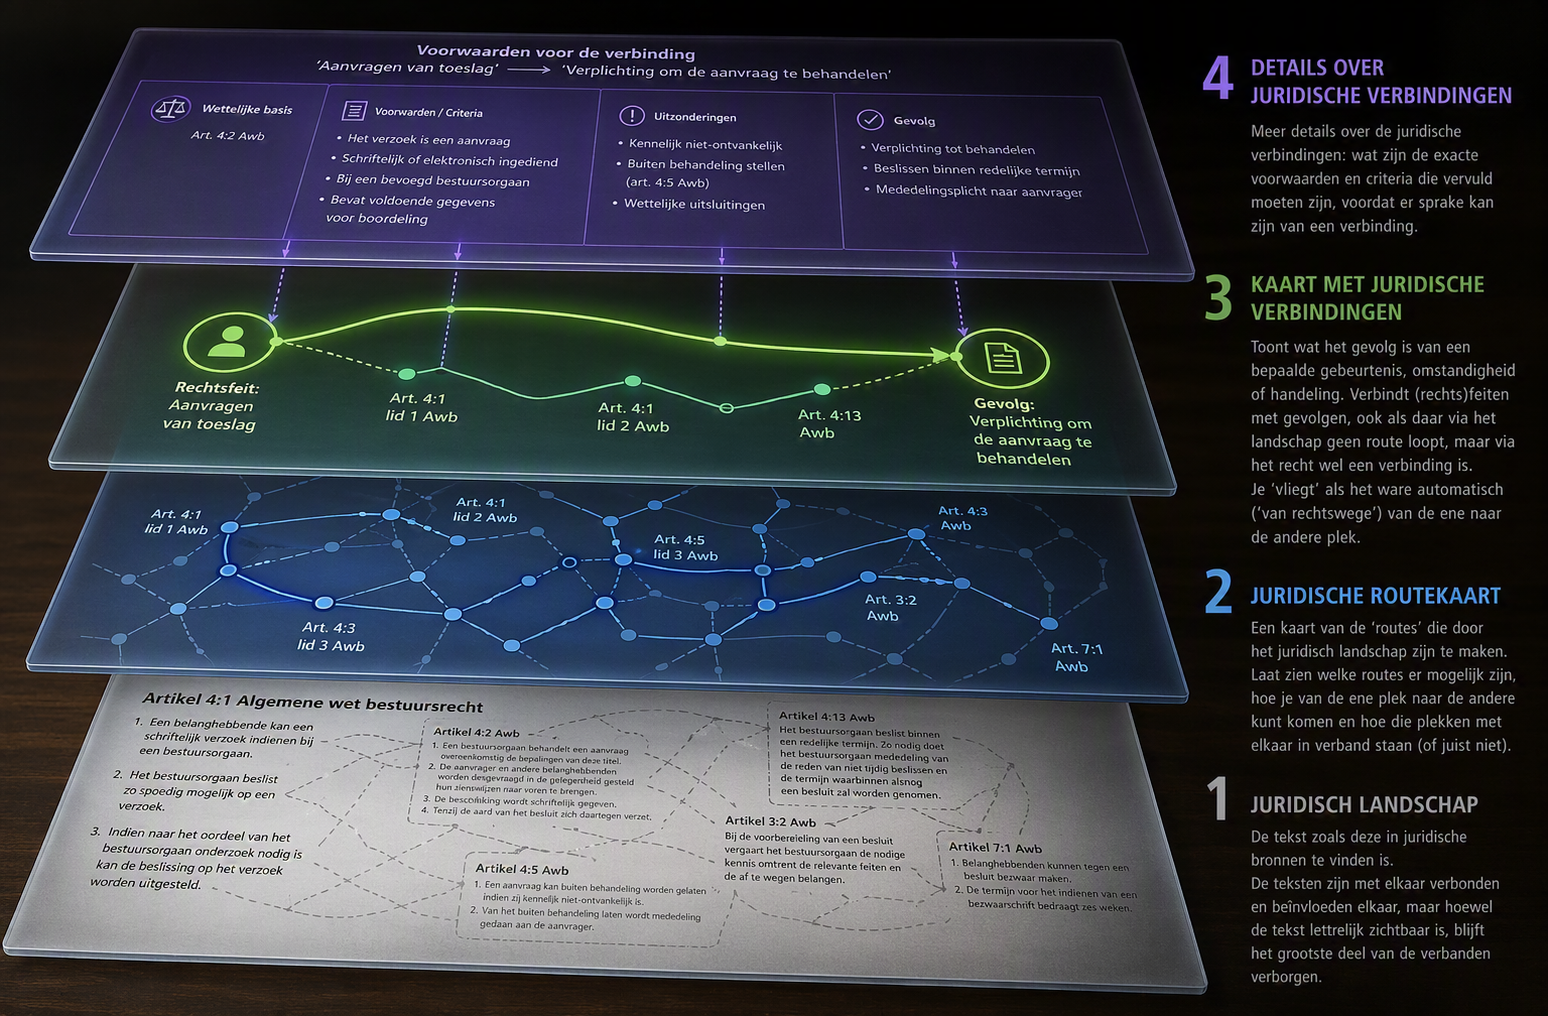
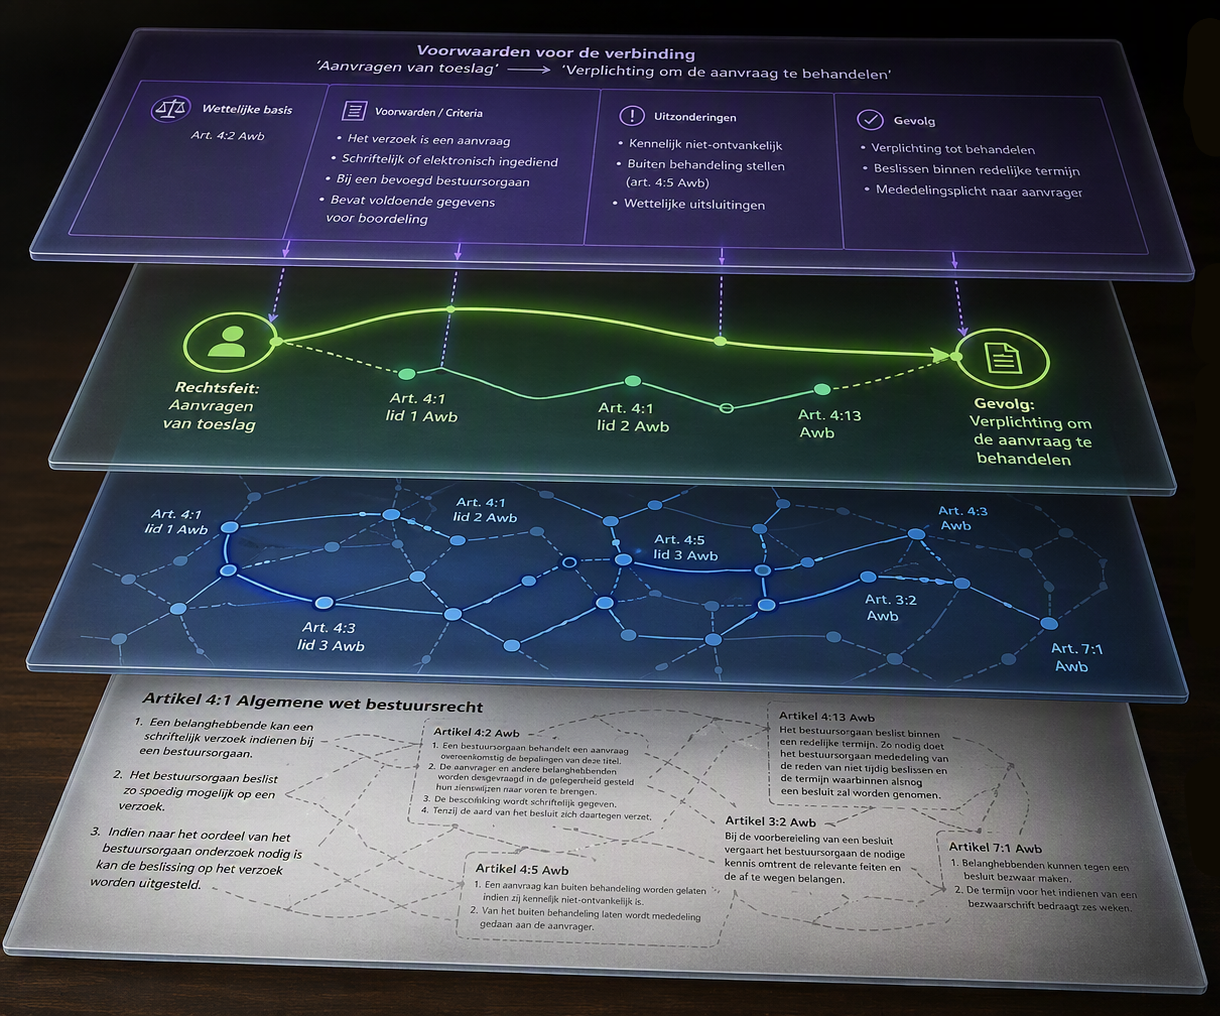
Verbetering visualisatie en terminologie

diff --git a/regelvorming/index.html b/regelvorming/index.html
@@ -28,6 +28,48 @@ dfn{cursor:pointer}
 <title>Regelvorming</title>
     
     
+<style>
+
+      .legislation {
+         margin: 1em 0;
+         padding: 0.5em 1em;
+         background: #eef6ff;
+         border-left: 4px solid #5b9bd5;
+         font-family: Arial, Verdana, sans-serif;
+         font-size: 0.95em;
+         line-height: 1.5;
+      }
+
+      .legislation .lid,
+      .legislation .onderdeel {
+        margin: 0.25em 0;
+      }
+
+      .legislation .lid {
+        padding-left: 2em;
+        text-indent: -1em;
+      }
+
+      .legislation .onderdeel {
+        padding-left: 3em;
+        text-indent: -1em;
+      }
+
+      .legislation .nr {
+        display: inline-block;
+        font-weight: normal;
+      }
+
+      .legislation .lid .nr {
+        width: 1em;
+      }
+
+      .legislation .onderdeel .nr {
+        width: 1em;
+      }
+    
+</style>
+    
     
   
 <style id="respec-mainstyle">
@@ -157,6 +199,7 @@ var[data-type]:hover::after,var[data-type]:hover::before{opacity:1}
   "subtitle": "Begrippen en model",
   "postProcess": [
     null,
+    null,
     null
   ],
   "latestVersion": "https://bp4mc2.org/regelvorming",
@@ -173,14 +216,14 @@ var[data-type]:hover::after,var[data-type]:hover::before{opacity:1}
     }
   ],
   "lint": false,
-  "publishISODate": "2026-06-22T00:00:00.000Z",
-  "generatedSubtitle": "22 juni 2026"
+  "publishISODate": "2026-06-29T00:00:00.000Z",
+  "generatedSubtitle": "29 juni 2026"
 }</script>
 <link rel="stylesheet" href="https://www.w3.org/StyleSheets/TR/2021/base.css"></head>
   <body class="h-entry informative"><div class="head">
     
     <h1 id="title" class="title">Regelvorming</h1> <h2 id="subtitle" class="subtitle">Begrippen en model</h2>
-    <p id="w3c-state"> <time class="dt-published" datetime="2026-06-22">22 juni 2026</time></p>
+    <p id="w3c-state"> <time class="dt-published" datetime="2026-06-29">29 juni 2026</time></p>
     <details open="">
       <summary>More details about this document</summary>
       <dl>
@@ -243,9 +286,9 @@ var[data-type]:hover::after,var[data-type]:hover::before{opacity:1}
 <li>En welke bepalingen hebben we dan nodig?</li>
 </ul>
 <p>En tenslotte ontstaat dan een stukje tekst, waarin de gevormde regels kunnen worden gecodificeerd.</p>
-</section><nav id="toc"><h2 class="introductory" id="inhoudsopgave">Inhoudsopgave</h2><ol class="toc"><li class="tocline"><a class="tocxref" href="#abstract">Samenvatting</a></li><li class="tocline"><a class="tocxref" href="#voorbeeld"><bdi class="secno">1. </bdi>Voorbeeld</a><ol class="toc"><li class="tocline"><a class="tocxref" href="#juridischlandschap"><bdi class="secno">1.1 </bdi>Eerste laag: het juridische landschap, de kern - tekstfragmenten die als grondslag dienen</a></li><li class="tocline"><a class="tocxref" href="#juridischewegenkaart"><bdi class="secno">1.2 </bdi>Tweede laag: de juridische wegenkaart - bepalingen en handelingen</a></li><li class="tocline"><a class="tocxref" href="#juridischeverbindingen"><bdi class="secno">1.3 </bdi>Derde laag: de juridische etappes - de feit-gevolg-paren</a></li><li class="tocline"><a class="tocxref" href="#detailleringjuridischeverbindingen"><bdi class="secno">1.4 </bdi>Vierde laag: voorwaarden en criteria</a></li></ol></li><li class="tocline"><a class="tocxref" href="#regelvorming"><bdi class="secno">2. </bdi>Regelvorming</a><ol class="toc"><li class="tocline"><a class="tocxref" href="#inleiding"><bdi class="secno">2.1 </bdi>Inleiding</a></li><li class="tocline"><a class="tocxref" href="#de-basis-gegeven-bronnen-van-recht"><bdi class="secno">2.2 </bdi>De basis: gegeven bronnen van recht</a></li><li class="tocline"><a class="tocxref" href="#een-stapje-dieper-bepalingen"><bdi class="secno">2.3 </bdi>Een stapje dieper: bepalingen</a></li><li class="tocline"><a class="tocxref" href="#nog-een-stapje-dieper-handelingen-actoren-en-objecten"><bdi class="secno">2.4 </bdi>Nog een stapje dieper: handelingen, actoren en objecten</a></li><li class="tocline"><a class="tocxref" href="#en-tenslotte-feiten-en-gevolgen"><bdi class="secno">2.5 </bdi>En tenslotte: feiten en gevolgen</a></li><li class="tocline"><a class="tocxref" href="#subjectieve-rechten-vs-bepalingen-in-het-objectieve-recht"><bdi class="secno">2.6 </bdi>Subjectieve rechten vs bepalingen in het objectieve recht</a></li></ol></li><li class="tocline"><a class="tocxref" href="#begrippen"><bdi class="secno">3. </bdi>Begrippen</a><ol class="toc"><li class="tocline"><a class="tocxref" href="#regelvorming-0"><bdi class="secno">3.1 </bdi>Regelvorming</a><ol class="toc"><li class="tocline"><a class="tocxref" href="#actor"><bdi class="secno">3.1.1 </bdi>Actor</a></li><li class="tocline"><a class="tocxref" href="#attributie"><bdi class="secno">3.1.2 </bdi>Attributie</a></li><li class="tocline"><a class="tocxref" href="#begrip"><bdi class="secno">3.1.3 </bdi>Begrip</a></li><li class="tocline"><a class="tocxref" href="#begripsbepaling"><bdi class="secno">3.1.4 </bdi>Begripsbepaling</a></li><li class="tocline"><a class="tocxref" href="#bepaling"><bdi class="secno">3.1.5 </bdi>Bepaling</a></li><li class="tocline"><a class="tocxref" href="#bevoegdheid"><bdi class="secno">3.1.6 </bdi>Bevoegdheid</a></li><li class="tocline"><a class="tocxref" href="#bron"><bdi class="secno">3.1.7 </bdi>Bron</a></li><li class="tocline"><a class="tocxref" href="#delegatie"><bdi class="secno">3.1.8 </bdi>Delegatie</a></li><li class="tocline"><a class="tocxref" href="#fragment"><bdi class="secno">3.1.9 </bdi>Fragment</a></li><li class="tocline"><a class="tocxref" href="#gebeurtenis"><bdi class="secno">3.1.10 </bdi>Gebeurtenis</a></li><li class="tocline"><a class="tocxref" href="#gedragsbepaling"><bdi class="secno">3.1.11 </bdi>Gedragsbepaling</a></li><li class="tocline"><a class="tocxref" href="#gedragsnorm"><bdi class="secno">3.1.12 </bdi>Gedragsnorm</a></li><li class="tocline"><a class="tocxref" href="#handeling"><bdi class="secno">3.1.13 </bdi>Handeling</a></li><li class="tocline"><a class="tocxref" href="#norm"><bdi class="secno">3.1.14 </bdi>Norm</a></li><li class="tocline"><a class="tocxref" href="#normadressaat"><bdi class="secno">3.1.15 </bdi>Normadressaat</a></li><li class="tocline"><a class="tocxref" href="#normbepaling"><bdi class="secno">3.1.16 </bdi>Normbepaling</a></li><li class="tocline"><a class="tocxref" href="#omstandigheid"><bdi class="secno">3.1.17 </bdi>Omstandigheid</a></li><li class="tocline"><a class="tocxref" href="#rechtsbetrekking"><bdi class="secno">3.1.18 </bdi>Rechtsbetrekking</a></li><li class="tocline"><a class="tocxref" href="#rechtschepping"><bdi class="secno">3.1.19 </bdi>Rechtschepping</a></li><li class="tocline"><a class="tocxref" href="#rechtsfeit"><bdi class="secno">3.1.20 </bdi>Rechtsfeit</a></li><li class="tocline"><a class="tocxref" href="#rechtsgevolg"><bdi class="secno">3.1.21 </bdi>Rechtsgevolg</a></li><li class="tocline"><a class="tocxref" href="#rechtshandeling"><bdi class="secno">3.1.22 </bdi>Rechtshandeling</a></li><li class="tocline"><a class="tocxref" href="#rechtspositie"><bdi class="secno">3.1.23 </bdi>Rechtspositie</a></li><li class="tocline"><a class="tocxref" href="#rechtswege-bepaling"><bdi class="secno">3.1.24 </bdi>Rechtswege-bepaling</a></li><li class="tocline"><a class="tocxref" href="#tekstfragment"><bdi class="secno">3.1.25 </bdi>Tekstfragment</a></li><li class="tocline"><a class="tocxref" href="#verbod"><bdi class="secno">3.1.26 </bdi>Verbod</a></li><li class="tocline"><a class="tocxref" href="#verplichting"><bdi class="secno">3.1.27 </bdi>Verplichting</a></li><li class="tocline"><a class="tocxref" href="#voorwaarde"><bdi class="secno">3.1.28 </bdi>Voorwaarde</a></li><li class="tocline"><a class="tocxref" href="#vrijstelling"><bdi class="secno">3.1.29 </bdi>Vrijstelling</a></li></ol></li></ol></li><li class="tocline"><a class="tocxref" href="#toepassingsprofiel"><bdi class="secno">4. </bdi>Toepassingsprofiel</a><ol class="toc"><li class="tocline"><a class="tocxref" href="#klassen"><bdi class="secno">4.1 </bdi>Klassen</a><ol class="toc"><li class="tocline"><a class="tocxref" href="#TActor"><bdi class="secno">4.1.1 </bdi>Actor</a></li><li class="tocline"><a class="tocxref" href="#TBegrip"><bdi class="secno">4.1.2 </bdi>Begrip</a></li><li class="tocline"><a class="tocxref" href="#TBepaling"><bdi class="secno">4.1.3 </bdi>Bepaling</a></li><li class="tocline"><a class="tocxref" href="#TBron"><bdi class="secno">4.1.4 </bdi>Bron</a></li><li class="tocline"><a class="tocxref" href="#TFragment"><bdi class="secno">4.1.5 </bdi>Fragment</a></li><li class="tocline"><a class="tocxref" href="#THandeling"><bdi class="secno">4.1.6 </bdi>Handeling</a></li></ol></li></ol></li></ol></nav>
+</section><nav id="toc"><h2 class="introductory" id="inhoudsopgave">Inhoudsopgave</h2><ol class="toc"><li class="tocline"><a class="tocxref" href="#abstract">Samenvatting</a></li><li class="tocline"><a class="tocxref" href="#voorbeeld"><bdi class="secno">1. </bdi>Voorbeeld</a><ol class="toc"><li class="tocline"><a class="tocxref" href="#juridischlandschap"><bdi class="secno">1.1 </bdi>Eerste laag: het juridische landschap, de kern - tekstfragmenten die als grondslag dienen</a></li><li class="tocline"><a class="tocxref" href="#juridischetopografie"><bdi class="secno">1.2 </bdi>Tweede laag: de juridische topografie - bepalingen en handelingen</a></li><li class="tocline"><a class="tocxref" href="#juridischeverbindingen"><bdi class="secno">1.3 </bdi>Derde laag: de juridische etappes - de feit-gevolg-paren</a></li><li class="tocline"><a class="tocxref" href="#detailleringjuridischeverbindingen"><bdi class="secno">1.4 </bdi>Vierde laag: voorwaarden en criteria</a></li></ol></li><li class="tocline"><a class="tocxref" href="#regelvorming"><bdi class="secno">2. </bdi>Regelvorming</a><ol class="toc"><li class="tocline"><a class="tocxref" href="#inleiding"><bdi class="secno">2.1 </bdi>Inleiding</a></li><li class="tocline"><a class="tocxref" href="#de-basis-gegeven-bronnen-van-recht"><bdi class="secno">2.2 </bdi>De basis: gegeven bronnen van recht</a></li><li class="tocline"><a class="tocxref" href="#een-stapje-dieper-bepalingen"><bdi class="secno">2.3 </bdi>Een stapje dieper: bepalingen</a></li><li class="tocline"><a class="tocxref" href="#nog-een-stapje-dieper-handelingen-actoren-en-objecten"><bdi class="secno">2.4 </bdi>Nog een stapje dieper: handelingen, actoren en objecten</a></li><li class="tocline"><a class="tocxref" href="#en-tenslotte-feiten-en-gevolgen"><bdi class="secno">2.5 </bdi>En tenslotte: feiten en gevolgen</a></li><li class="tocline"><a class="tocxref" href="#subjectieve-rechten-vs-bepalingen-in-het-objectieve-recht"><bdi class="secno">2.6 </bdi>Subjectieve rechten vs bepalingen in het objectieve recht</a></li></ol></li><li class="tocline"><a class="tocxref" href="#begrippen"><bdi class="secno">3. </bdi>Begrippen</a><ol class="toc"><li class="tocline"><a class="tocxref" href="#regelvorming-0"><bdi class="secno">3.1 </bdi>Regelvorming</a><ol class="toc"><li class="tocline"><a class="tocxref" href="#actor"><bdi class="secno">3.1.1 </bdi>Actor</a></li><li class="tocline"><a class="tocxref" href="#attributie"><bdi class="secno">3.1.2 </bdi>Attributie</a></li><li class="tocline"><a class="tocxref" href="#begrip"><bdi class="secno">3.1.3 </bdi>Begrip</a></li><li class="tocline"><a class="tocxref" href="#begripsbepaling"><bdi class="secno">3.1.4 </bdi>Begripsbepaling</a></li><li class="tocline"><a class="tocxref" href="#bepaling"><bdi class="secno">3.1.5 </bdi>Bepaling</a></li><li class="tocline"><a class="tocxref" href="#bevoegdheid"><bdi class="secno">3.1.6 </bdi>Bevoegdheid</a></li><li class="tocline"><a class="tocxref" href="#bron"><bdi class="secno">3.1.7 </bdi>Bron</a></li><li class="tocline"><a class="tocxref" href="#delegatie"><bdi class="secno">3.1.8 </bdi>Delegatie</a></li><li class="tocline"><a class="tocxref" href="#fragment"><bdi class="secno">3.1.9 </bdi>Fragment</a></li><li class="tocline"><a class="tocxref" href="#gebeurtenis"><bdi class="secno">3.1.10 </bdi>Gebeurtenis</a></li><li class="tocline"><a class="tocxref" href="#gedragsbepaling"><bdi class="secno">3.1.11 </bdi>Gedragsbepaling</a></li><li class="tocline"><a class="tocxref" href="#gedragsnorm"><bdi class="secno">3.1.12 </bdi>Gedragsnorm</a></li><li class="tocline"><a class="tocxref" href="#handeling"><bdi class="secno">3.1.13 </bdi>Handeling</a></li><li class="tocline"><a class="tocxref" href="#norm"><bdi class="secno">3.1.14 </bdi>Norm</a></li><li class="tocline"><a class="tocxref" href="#normadressaat"><bdi class="secno">3.1.15 </bdi>Normadressaat</a></li><li class="tocline"><a class="tocxref" href="#normbepaling"><bdi class="secno">3.1.16 </bdi>Normbepaling</a></li><li class="tocline"><a class="tocxref" href="#omstandigheid"><bdi class="secno">3.1.17 </bdi>Omstandigheid</a></li><li class="tocline"><a class="tocxref" href="#rechtsbetrekking"><bdi class="secno">3.1.18 </bdi>Rechtsbetrekking</a></li><li class="tocline"><a class="tocxref" href="#rechtschepping"><bdi class="secno">3.1.19 </bdi>Rechtschepping</a></li><li class="tocline"><a class="tocxref" href="#rechtsfeit"><bdi class="secno">3.1.20 </bdi>Rechtsfeit</a></li><li class="tocline"><a class="tocxref" href="#rechtsgevolg"><bdi class="secno">3.1.21 </bdi>Rechtsgevolg</a></li><li class="tocline"><a class="tocxref" href="#rechtshandeling"><bdi class="secno">3.1.22 </bdi>Rechtshandeling</a></li><li class="tocline"><a class="tocxref" href="#rechtspositie"><bdi class="secno">3.1.23 </bdi>Rechtspositie</a></li><li class="tocline"><a class="tocxref" href="#rechtswege-bepaling"><bdi class="secno">3.1.24 </bdi>Rechtswege-bepaling</a></li><li class="tocline"><a class="tocxref" href="#tekstfragment"><bdi class="secno">3.1.25 </bdi>Tekstfragment</a></li><li class="tocline"><a class="tocxref" href="#verbod"><bdi class="secno">3.1.26 </bdi>Verbod</a></li><li class="tocline"><a class="tocxref" href="#verplichting"><bdi class="secno">3.1.27 </bdi>Verplichting</a></li><li class="tocline"><a class="tocxref" href="#voorwaarde"><bdi class="secno">3.1.28 </bdi>Voorwaarde</a></li><li class="tocline"><a class="tocxref" href="#vrijstelling"><bdi class="secno">3.1.29 </bdi>Vrijstelling</a></li></ol></li></ol></li><li class="tocline"><a class="tocxref" href="#toepassingsprofiel"><bdi class="secno">4. </bdi>Toepassingsprofiel</a><ol class="toc"><li class="tocline"><a class="tocxref" href="#klassen"><bdi class="secno">4.1 </bdi>Klassen</a><ol class="toc"><li class="tocline"><a class="tocxref" href="#TActor"><bdi class="secno">4.1.1 </bdi>Actor</a></li><li class="tocline"><a class="tocxref" href="#TBegrip"><bdi class="secno">4.1.2 </bdi>Begrip</a></li><li class="tocline"><a class="tocxref" href="#TBepaling"><bdi class="secno">4.1.3 </bdi>Bepaling</a></li><li class="tocline"><a class="tocxref" href="#TBron"><bdi class="secno">4.1.4 </bdi>Bron</a></li><li class="tocline"><a class="tocxref" href="#TFragment"><bdi class="secno">4.1.5 </bdi>Fragment</a></li><li class="tocline"><a class="tocxref" href="#THandeling"><bdi class="secno">4.1.6 </bdi>Handeling</a></li></ol></li></ol></li></ol></nav>
     <section id="voorbeeld"><div class="header-wrapper"><h2 id="x1-voorbeeld"><bdi class="secno">1. </bdi>Voorbeeld</h2><a class="self-link" href="#voorbeeld" aria-label="Permalink for Section 1."></a></div>
-<p>De uitwerking van regelvorming verloopt in lagen:</p>
+<p>De uitwerking van regelvorming verloopt in lagen. In analogie met een fysiek landschap en kaarten van dit landschap, bestaat de uitwerking uit kaartlagen:</p>
 <p>
       </p><figure id="fig-lagenmodel">
         <img src="lagen.png" alt="">
@@ -253,20 +296,13 @@ var[data-type]:hover::after,var[data-type]:hover::before{opacity:1}
       </figure>
     <p></p>
 <ol>
-<li>De eerste laag is het <a href="#juridischlandschap">juridisch landschap</a>. Dit betreft de tekst zoals deze in juridische bronnen te vinden is. Deze tekst vormt een "landschap": de teksten zijn met elkaar verbonden en beïnvloeden elkaar, maar hoewel de tekst letterlijk zichtbaar is, blijft het grootste deel van de verbanden verborgen. Anders dan de normale vorm waarin regels worden gegeven (als wetboeken), is in een juridisch landschap juist de verbanden tussen de afzonderlijke "plekken", de afzonderlijke artikelen goed zichtbaar.</li>
-<li>De tweede laag is de <a href="#juridischewegenkaart">juridische wegenkaart</a>. Dit betreft een kaart van wegen die door het juridisch landschap lopen. Juridische teksten gaan ergens over: ze definiëren begrippen en normeren gedrag. Verschillende artikelen kunnen daarbij gaan over dezelfde begrippen of het zelfde gedrag. De juridische wegenkaart verbindt deze artikelen: zo kun je direct zien welke artikelen met elkaar verbonden zijn en over "hetzelfde" gaan. Door elk punt van het landschap (bijvoorbeeld een lid van een artikel van wet) zullen meerdere wegen lopen. De juridische wegenkaart laat wel zijn <em>welke</em> wegen er allemaal zijn. En ook laat het zien hoe je van de ene plek naar de andere kunt komen, en hoe die plekken met elkaar in verband staan (of juist niet).</li>
-<li>De derde laag is de kaart met <a href="#juridischeverbindingen">juridische verbindingen</a>. De juridische wegenkaart kan namelijk nogal overkomen als een doolhof. Het laat de wegen dan wel zien, maar die lopen kriskras door het landschap. Op de kaart met juridische verbindingen staat juist afgebeeld wat het gevolg is van een bepaalde gebeurtenis, omstandigheid of handeling. De kaart toont de verbindingen tussen zo'n (rechts)feit (bijvoorbeeld het aanvragen van een toeslag) en het gevolg (zoals de verplichting om de aanvraag te behandelen). Hiermee verbindt de deze kaart plekken waar via het landschap geen weg loopt, maar via het recht wel een verbinding is. Je "vliegt" als het ware automatisch ("van rechtswege") van de ene naar de andere plek (of beter gezegd: "beam me up scotty..."). Net wat je nodig hebt, als je het gevoel hebt in een doolhof terecht te zijn gekomen.</li>
+<li>De eerste laag is het <a href="#juridischlandschap">juridisch landschap</a> zelf. Zoals een "normale kaart" satelietbeelden van een landschap als eerst laag kent, betreft dit de tekst zoals deze in juridische bronnen te vinden is. Deze tekst vormt een "landschap": de teksten zijn met elkaar verbonden en beïnvloeden elkaar, maar hoewel de tekst letterlijk zichtbaar is, blijft het grootste deel van de verbanden verborgen. Anders dan de normale vorm waarin regels worden gegeven (als wetboeken), is in een juridisch landschap juist de verbanden tussen de afzonderlijke "plekken", de afzonderlijke artikelen goed zichtbaar.</li>
+<li>De tweede laag is een kaart met de <a href="#juridischetopografie">juridische topografie</a>. Dit betreft een kaart van de bepalingen die in de tekst gevonden kunnen worden. Juridische teksten gaan ergens over: ze definiëren begrippen en normeren gedrag. Verschillende artikelen kunnen daarbij gaan over dezelfde begrippen of het zelfde gedrag. De juridische topografie geeft de grammaticale interpretatie van de artikelen: zo kun je direct zien welke artikelen met elkaar verbonden zijn en over "hetzelfde" gaan.</li>
+<li>De derde laag is de kaart met <a href="#juridischeverbindingen">juridische verbindingen</a>. De juridische topografie beschrijft wel het juridisch landschap, maar laat nog niet zien hoe je van de ene naar de andere plek komt. Op de kaart met juridische verbindingen staat juist afgebeeld wat het gevolg is van een bepaalde gebeurtenis, omstandigheid of handeling. De kaart toont de verbindingen tussen zo'n (rechts)feit (bijvoorbeeld het aanvragen van een toeslag) en het gevolg (zoals de verplichting om de aanvraag te behandelen). Hiermee verbindt de deze kaart plekken waar via het landschap geen weg loopt, maar via het recht wel een verbinding is. Je "vliegt" als het ware automatisch ("van rechtswege") van de ene naar de andere plek.</li>
 <li>De vierde laag geeft meer <a href="#detailleringjuridischeverbindingen">details over de juridische verbindingen</a>: wat zijn de exacte voorwaarden en criteria die vervuld moeten zijn, voordat er sprake kan zijn van een verbinding.</li>
 </ol>
 <section id="eerste-laag-het-juridische-landschap-de-kern-tekstfragmenten-die-als-grondslag-dienen"><div class="header-wrapper"><h3 id="juridischlandschap"><bdi class="secno">1.1 </bdi>Eerste laag: het juridische landschap, de kern - tekstfragmenten die als grondslag dienen</h3><a class="self-link" href="#juridischlandschap" aria-label="Permalink for Section 1.1"></a></div><p>Als voorbeeld nemen we de casus van een individuele inkomenstoeslag. Deze wordt beschreven in artikel 36 van de participatiewet:</p>
-<pre><code aria-busy="false" class="hljs css"><span class="hljs-number">1</span>. Op aanvraag van een persoon van <span class="hljs-number">21</span> jaar of ouder doch jonger dan de pensioengerechtigde leeftijd, die langdurig een laag inkomen en geen in aanmerking te nemen vermogen als bedoeld in artikel <span class="hljs-number">34</span> heeft en geen uitzicht heeft op inkomensverbetering, kan het college, gelet op de omstandigheden van die persoon, een individuele inkomenstoeslag verlenen.
-<span class="hljs-number">2</span> Tot de omstandigheden, bedoeld in het eerste lid, worden in ieder geval gerekend:
-  a. de krachten en bekwaamheden van de persoon; en
-  <span class="hljs-selector-tag">b</span>. de inspanningen die de persoon heeft verricht om tot inkomensverbetering te komen.
-<span class="hljs-number">3</span> Indien aan de persoon, bedoeld in het eerste lid, in de periode van <span class="hljs-number">12</span> maanden onmiddellijk voorafgaande aan de aanvraag, een individuele inkomenstoeslag is verleend, wordt de aanvraag afgewezen.
-<span class="hljs-number">4</span> De artikelen <span class="hljs-number">43</span>, <span class="hljs-number">49</span> en <span class="hljs-number">52</span> zijn niet van toepassing.
-</code></pre>
-<p>Dit artikel is <a href="#tekstfragment">tekstfragment</a> en onderdeel van een <a href="#bron">bron</a>, de <a href="">participatieswet</a>. Deze bron biedt een grondslag voor de regels rondom een individuele inkomenstoeslag. Dit artikel kan zelf nog worden opgedeeld in vier afzonderlijke tekstfragmenten: elk lid is een afzonderlijk tekstfragment. We zouden ook die tekstfragmenten weer kunnen opsplitsen (zo kan je lid 2 nog in een sub-a en sub-b fragment opsplitsen, maar voorlopig laten we het bij de leden).</p>
+<div class="legislation"><p class="lid"><span class="nr">1.</span>Op aanvraag van een persoon van 21 jaar of ouder doch jonger dan de pensioengerechtigde leeftijd, die langdurig een laag inkomen en geen in aanmerking te nemen vermogen als bedoeld in artikel 34 heeft en geen uitzicht heeft op inkomensverbetering, kan het college, gelet op de omstandigheden van die persoon, een individuele inkomenstoeslag verlenen.</p><p class="lid"><span class="nr">2.</span>Tot de omstandigheden, bedoeld in het eerste lid, worden in ieder geval gerekend:</p><p class="onderdeel"><span class="nr">a.</span>de krachten en bekwaamheden van de persoon; en</p><p class="onderdeel"><span class="nr">b.</span>de inspanningen die de persoon heeft verricht om tot inkomensverbetering te komen.</p><p class="lid"><span class="nr">3.</span>Indien aan de persoon, bedoeld in het eerste lid, in de periode van 12 maanden onmiddellijk voorafgaande aan de aanvraag, een individuele inkomenstoeslag is verleend, wordt de aanvraag afgewezen.</p><p class="lid"><span class="nr">4.</span>De artikelen 43, 49 en 52 zijn niet van toepassing.</p></div><p>Dit artikel is <a href="#tekstfragment">tekstfragment</a> en onderdeel van een <a href="#bron">bron</a>, de <a href="">participatieswet</a>. Deze bron biedt een grondslag voor de regels rondom een individuele inkomenstoeslag. Dit artikel kan zelf nog worden opgedeeld in vier afzonderlijke tekstfragmenten: elk lid is een afzonderlijk tekstfragment. We zouden ook die tekstfragmenten weer kunnen opsplitsen (zo kan je lid 2 nog in een sub-a en sub-b fragment opsplitsen, maar voorlopig laten we het bij de leden).</p>
 <p>We verwijzen naar tekstfragmenten conform de aanwijzingen voor de regelgeving. Zo krijgen we de onderstaande opdeling:</p>
 <pre><code aria-busy="false" class="hljs">- Participatiewet
   - Artikel 36 Pw
@@ -283,10 +319,8 @@ var[data-type]:hover::after,var[data-type]:hover::before{opacity:1}
         <figcaption><a class="self-link" href="#fig-kennisgraaf-laag-1">Figuur <bdi class="figno">2</bdi></a> <span class="fig-title">kennisgraaf laag 1</span></figcaption>
       </figure>
     <p></p>
-</section><section id="tweede-laag-de-juridische-wegenkaart-bepalingen-en-handelingen"><div class="header-wrapper"><h3 id="juridischewegenkaart"><bdi class="secno">1.2 </bdi>Tweede laag: de juridische wegenkaart - bepalingen en handelingen</h3><a class="self-link" href="#juridischewegenkaart" aria-label="Permalink for Section 1.2"></a></div><p>We gaan kijken welke <a href="#bepaling">bepalingen</a> er aanwezig zijn in het eerste tekstfragment: Artikel 36 lid 1 Pw, hieronder nogmaals afgebeeld.</p>
-<pre><code aria-busy="false" class="hljs">1. Op aanvraag van een persoon van 21 jaar of ouder doch jonger dan de pensioengerechtigde leeftijd, die langdurig een laag inkomen en geen in aanmerking te nemen vermogen als bedoeld in artikel 34 heeft en geen uitzicht heeft op inkomensverbetering, kan het college, gelet op de omstandigheden van die persoon, een individuele inkomenstoeslag verlenen.
-</code></pre>
-<p>Dit artikel is een duidelijk geval van een <a href="#bepaling">bepaling</a> waarin een <a href="#bevoegdheid">bevoegdheid</a> wordt geregeld. Het betreft een bevoegdheid met betrekking tot de <a href="#handeling">handeling</a> «verlenen individuele inkomenstoeslag». De <a href="#normadressaat">normadressaat</a>, degene tot wie deze <a href="#gedragsnorm">gedragsnorm</a> is gericht, betreft «het college». Die krijgt de bevoegdheid.</p>
+</section><section id="tweede-laag-de-juridische-topografie-bepalingen-en-handelingen"><div class="header-wrapper"><h3 id="juridischetopografie"><bdi class="secno">1.2 </bdi>Tweede laag: de juridische topografie - bepalingen en handelingen</h3><a class="self-link" href="#juridischetopografie" aria-label="Permalink for Section 1.2"></a></div><p>We gaan kijken welke <a href="#bepaling">bepalingen</a> er aanwezig zijn in het eerste tekstfragment: Artikel 36 lid 1 Pw, hieronder nogmaals afgebeeld.</p>
+<div class="legislation"><p class="lid"><span class="nr">1.</span>Op aanvraag van een persoon van 21 jaar of ouder doch jonger dan de pensioengerechtigde leeftijd, die langdurig een laag inkomen en geen in aanmerking te nemen vermogen als bedoeld in artikel 34 heeft en geen uitzicht heeft op inkomensverbetering, kan het college, gelet op de omstandigheden van die persoon, een individuele inkomenstoeslag verlenen.</p></div><p>Dit artikel is een duidelijk geval van een <a href="#bepaling">bepaling</a> waarin een <a href="#bevoegdheid">bevoegdheid</a> wordt geregeld. Het betreft een bevoegdheid met betrekking tot de <a href="#handeling">handeling</a> «verlenen individuele inkomenstoeslag». De <a href="#normadressaat">normadressaat</a>, degene tot wie deze <a href="#gedragsnorm">gedragsnorm</a> is gericht, betreft «het college». Die krijgt de bevoegdheid.</p>
 <p>Er gebeurt echt nog meer in dit tekstfragment. Het fragment bevat ook nog twee <a href="#voorwaarde">voorwaarden</a>. De eerste voorwaarde is materieel en beperkt de bevoegdheid. De bevoegdheid is onder de voorwaarde dat:</p>
 <ul>
 <li>De aanvraag is ingediend door een persoon van 21 jaar of ouder, doch jonger dan de pensioengerechtigde leeftijd, EN</li>
@@ -304,25 +338,15 @@ var[data-type]:hover::after,var[data-type]:hover::before{opacity:1}
 <li>omstandigheden van de persoon (artikel 36 lid 2 Pw).</li>
 </ul>
 <p>Het begrip «uitzicht op inkomensverbetering» wordt in de wet niet verder uitgewerkt. En ook de uitwerking van «omstandigheden van de persoon» blijven open normen. Artikel 8 geeft de oplossing. Ook dit artikel is voor ons relevant:</p>
-<pre><code aria-busy="false" class="hljs css"><span class="hljs-number">1</span>. De gemeenteraad stelt bij verordening regels met betrekking tot:
-  a. het verlagen van de bijstand, bedoeld in artikel <span class="hljs-number">18</span>, tweede lid en de periode van de verlaging van de bijstand, bedoeld in artikel <span class="hljs-number">18</span>, vijfde en zesde lid;
-  <span class="hljs-selector-tag">b</span>. het verlenen van een individuele inkomenstoeslag als bedoeld in artikel <span class="hljs-number">36</span>;
-  c. het verlagen van de bijstand, bedoeld in artikel <span class="hljs-number">9</span>a, twaalfde lid.
-<span class="hljs-number">2</span> De regels, bedoeld in het eerste lid, hebben voor zover het gaat om het eerste lid, onderdeel <span class="hljs-selector-tag">b</span>, in ieder geval betrekking op de hoogte van de individuele inkomenstoeslag en de wijze waarop invulling wordt gegeven aan de begrippen langdurig en laag inkomen.
-</code></pre>
-<p>Artikel 8 lid 1 sub b bevat een <a href="#delegatie">delegatie</a>-bepaling die de gemeenteraad verplicht tot het opstellen van een verordening met daarin regels met betrekking tot een individuele inkomenstoeslag. Met artikel 8 lid 2 omvat die verplichting ook een verplichting om een begrips-bepaling op te nemen met betrekking tot de begrippen langdurig en laag inkomen.</p>
+<div class="legislation"><p class="lid"><span class="nr">1.</span>De gemeenteraad stelt bij verordening regels met betrekking tot:</p><p class="onderdeel"><span class="nr">a.</span>het verlagen van de bijstand, bedoeld in artikel 18, tweede lid en de periode van de verlaging van de bijstand, bedoeld in artikel 18, vijfde en zesde lid;</p><p class="onderdeel"><span class="nr">b.</span>het verlenen van een individuele inkomenstoeslag als bedoeld in artikel 36;</p><p class="onderdeel"><span class="nr">c.</span>het verlagen van de bijstand, bedoeld in artikel 9a, twaalfde lid.</p><p class="lid"><span class="nr">2.</span>De regels, bedoeld in het eerste lid, hebben voor zover het gaat om het eerste lid, onderdeel b, in ieder geval betrekking op de hoogte van de individuele inkomenstoeslag en de wijze waarop invulling wordt gegeven aan de begrippen langdurig en laag inkomen.</p></div><p>Artikel 8 lid 1 sub b bevat een <a href="#delegatie">delegatie</a>-bepaling die de gemeenteraad verplicht tot het opstellen van een verordening met daarin regels met betrekking tot een individuele inkomenstoeslag. Met artikel 8 lid 2 omvat die verplichting ook een verplichting om een begrips-bepaling op te nemen met betrekking tot de begrippen langdurig en laag inkomen.</p>
 <p>We nemen in dit voorbeeld de gemeente Utrecht als voorbeeld. De bron die we nodig hebben is in dit geval de <a href="https://lokaleregelgeving.overheid.nl/CVDR729770/1">Verordening individuele inkomenstoeslag gemeente Utrecht</a>. Het tekstfragment Artikel 2 van deze bron geeft ons de definitie:</p>
-<pre><code aria-busy="false" class="hljs">Een persoon heeft een langdurig laag inkomen als gedurende de referteperiode, over de gehele periode bezien, het in aanmerking te nemen inkomen niet hoger is dan 125% van de van toepassing zijnde bijstandsnorm.
-</code></pre>
-<p>Dit betreft een <a href="#begripsbepaling">begripsbepaling</a>, betreffende het begrip "langdurig laag inkomen". Deze bepaling maakt weer gebruik van twee andere begrippen, die we ook weer zoeken:</p>
+<div class="legislation"><p class="preamble">Een persoon heeft een langdurig laag inkomen als gedurende de referteperiode, over de gehele periode bezien, het in aanmerking te nemen inkomen niet hoger is dan 125% van de van toepassing zijnde bijstandsnorm. Een persoon heeft een langdurig laag inkomen als gedurende de referteperiode, over de gehele periode bezien, het in aanmerking te nemen inkomen niet hoger is dan 125% van de van toepassing zijnde bijstandsnorm.</p></div><p>Dit betreft een <a href="#begripsbepaling">begripsbepaling</a>, betreffende het begrip "langdurig laag inkomen". Deze bepaling maakt weer gebruik van twee andere begrippen, die we ook weer zoeken:</p>
 <ul>
 <li>referteperiode (artikel 1 sub d van de verordening);</li>
 <li>van toepassing zijnde bijstandsnorm (artikel 1 sub e van de verordening, verwijst naar artikel 5 sub c Pw, paragraaf 3.3 Pw en artikel 22a Pw)</li>
 </ul>
 <p>Tenslotte levert ons artikel 4 van de verordening een verdere invulling van de open norm m.b.t. uitzicht op inkomensverbetering op:</p>
-<pre><code aria-busy="false" class="hljs">Uitzicht op inkomensverbetering wordt in ieder geval aanwezig geacht bij personen die op de peildatum of in de referteperiode een MBO-, HBO- of WO-opleiding of een particuliere beroepsopleiding volgen, tenzij burgemeester en wethouders van oordeel zijn dat er sprake is van bijzondere individuele omstandigheden die in de weg staan aan inkomensverbetering.
-</code></pre>
-<p>Merk op dat de regelgeving nog vrij veel ruimte laat aan het bestuursorgaan. Er is zelfs nog een hardheidsclausule aanwezig (artikel 5 van de verordening), waarmee het bestuursorgaan vrij veel ruimte heeft voor individuele afwegingen.</p>
+<div class="legislation"><p class="preamble">Uitzicht op inkomensverbetering wordt in ieder geval aanwezig geacht bij personen die op de peildatum of in de referteperiode een MBO-, HBO- of WO-opleiding of een particuliere beroepsopleiding volgen, tenzij burgemeester en wethouders van oordeel zijn dat er sprake is van bijzondere individuele omstandigheden die in de weg staan aan inkomensverbetering. Uitzicht op inkomensverbetering wordt in ieder geval aanwezig geacht bij personen die op de peildatum of in de referteperiode een MBO-, HBO- of WO-opleiding of een particuliere beroepsopleiding volgen, tenzij burgemeester en wethouders van oordeel zijn dat er sprake is van bijzondere individuele omstandigheden die in de weg staan aan inkomensverbetering.</p></div><p>Merk op dat de regelgeving nog vrij veel ruimte laat aan het bestuursorgaan. Er is zelfs nog een hardheidsclausule aanwezig (artikel 5 van de verordening), waarmee het bestuursorgaan vrij veel ruimte heeft voor individuele afwegingen.</p>
 <p>
       </p><figure id="fig-kennisgraaf-laag-2">
         <img src="kennisgraaf-laag2.svg" alt="">